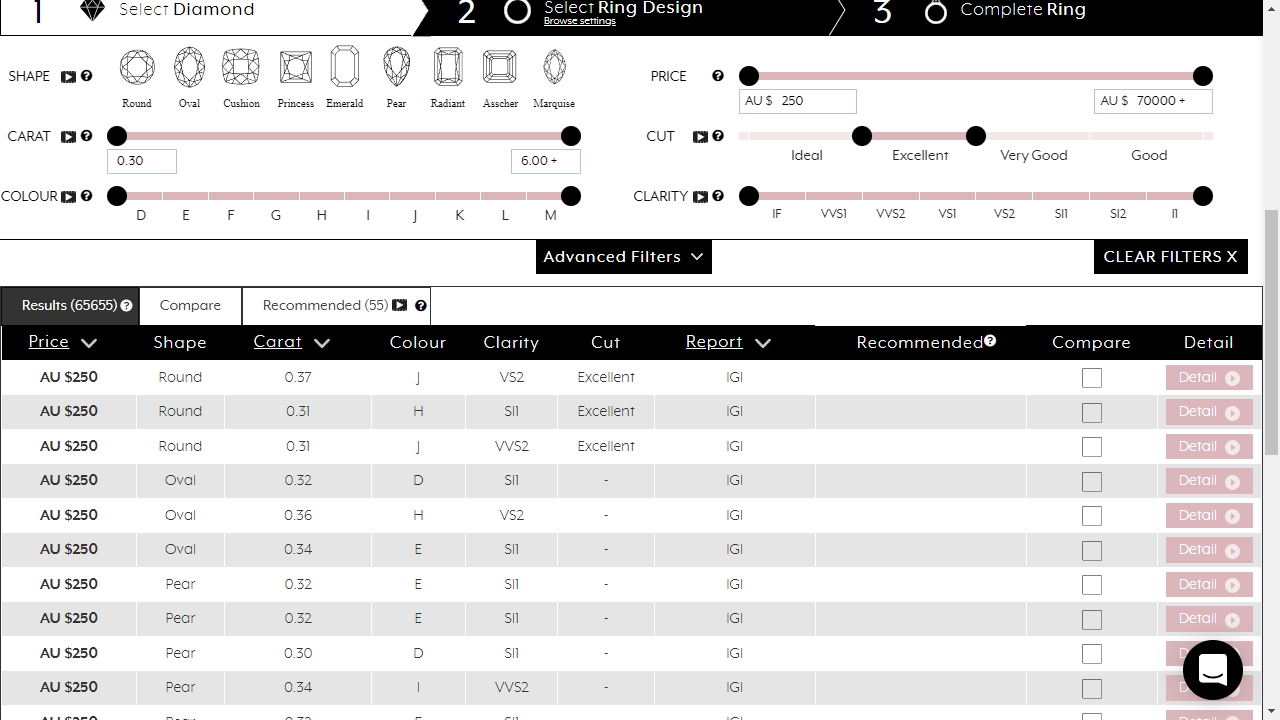
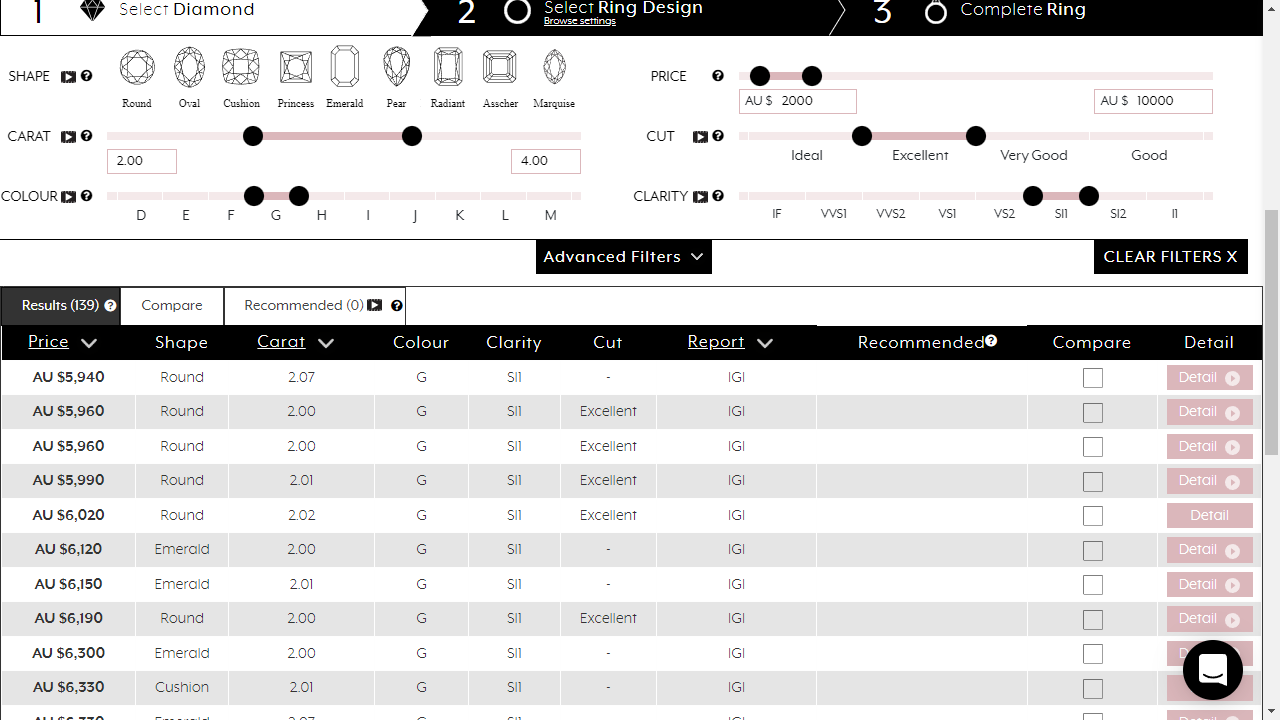
All filters checked

diff --git a/Start_with a Diamond_test.js b/Start_with a Diamond_test.js
@@ -99,7 +99,13 @@ Scenario('Buy a diamond', ({ I }) => {
                 console.log('Error in the values obtained from the Clarity filter');
             }
         }
-    }
+    };
+    // Check the Polish filter
+    function checkPolish() {
+        I.wait(1);
+        I.dragSlider("#advanced_filters_content .diamond_filter_polish_content .from", 150);
+        I.dragSlider("#advanced_filters_content .diamond_filter_polish_content .to", -150);
+    };
     // Check the Report filter
     async function checkReport(report) {
         const records = await I.grabTextFromAll('tbody tr td:nth-child(7)');
@@ -108,6 +114,10 @@ Scenario('Buy a diamond', ({ I }) => {
                 console.log('Error in the values obtained from the Report filter');
             }
         }
+    };
+    // Check the Symmetry filter
+    function checkSymmetry() {
+
     };
     // Check the compare option
     function compareDiamonds() {
@@ -129,31 +139,36 @@ Scenario('Buy a diamond', ({ I }) => {
     // I.click('.round-shape');
     I.wait(1);
     I.scrollTo("#body_table_results", 0, 100);
-    // checkShape();
+
     //------------------------------------------------------------------------------
-    // checkCarat();
+    checkShape();
     //------------------------------------------------------------------------------
-    // checkColour("G");
+    checkCarat();
     //------------------------------------------------------------------------------
-    // checkPrice();
+    checkColour("G");
     //------------------------------------------------------------------------------
-    // checkCut();
+    checkPrice();
     //------------------------------------------------------------------------------
-    // I.wait(1);
+    checkCut();
+    //------------------------------------------------------------------------------
     checkClarity();
     //------------------------------------------------------------------------------
-    // I.click("#advanced_filters_button");
-    // for (let i = 0; i < params.reports.length; i++) {
-    //     I.click(params.reports[i], `#advanced_filters_content .diamond_filter_certificate_content ul li:nth-child(${i+1}) label`);
-    //     checkReport(params.reports[i]);
-    //     I.click(params.reports[i], `#advanced_filters_content .diamond_filter_certificate_content ul li:nth-child(${i+1}) label`);
-    // }
+    I.click("#advanced_filters_button");
+    I.wait(1);
+    checkPolish();
+    //------------------------------------------------------------------------------
+    I.wait(1);
+    for (let i = 0; i < params.reports.length; i++) {
+        I.click(params.reports[i], `#advanced_filters_content .diamond_filter_certificate_content ul li:nth-child(${i+1}) label`);
+        checkReport(params.reports[i]);
+        I.click(params.reports[i], `#advanced_filters_content .diamond_filter_certificate_content ul li:nth-child(${i+1}) label`);
+    }
     //------------------------------------------------------------------------------
     // Reset filters
-    // I.click('//*[@id="search_form"]/div[5]/a[2]');
+    I.click('//*[@id="search_form"]/div[5]/a[2]');
     //------------------------------------------------------------------------------
-    // I.wait(1);
-    // compareDiamonds();
+    I.wait(1);
+    compareDiamonds();
     //------------------------------------------------------------------------------
 
     pause();
